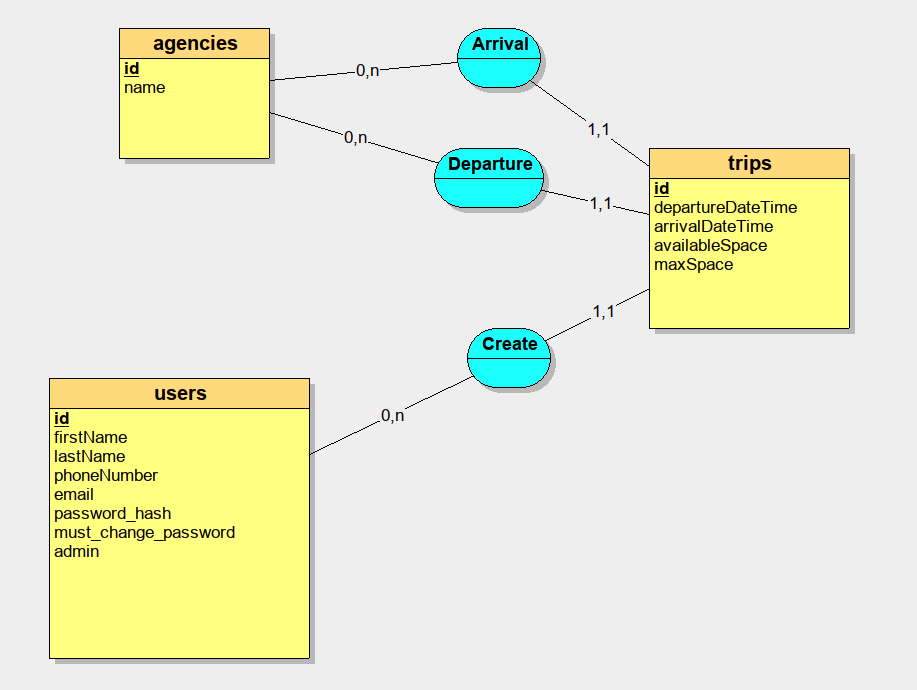
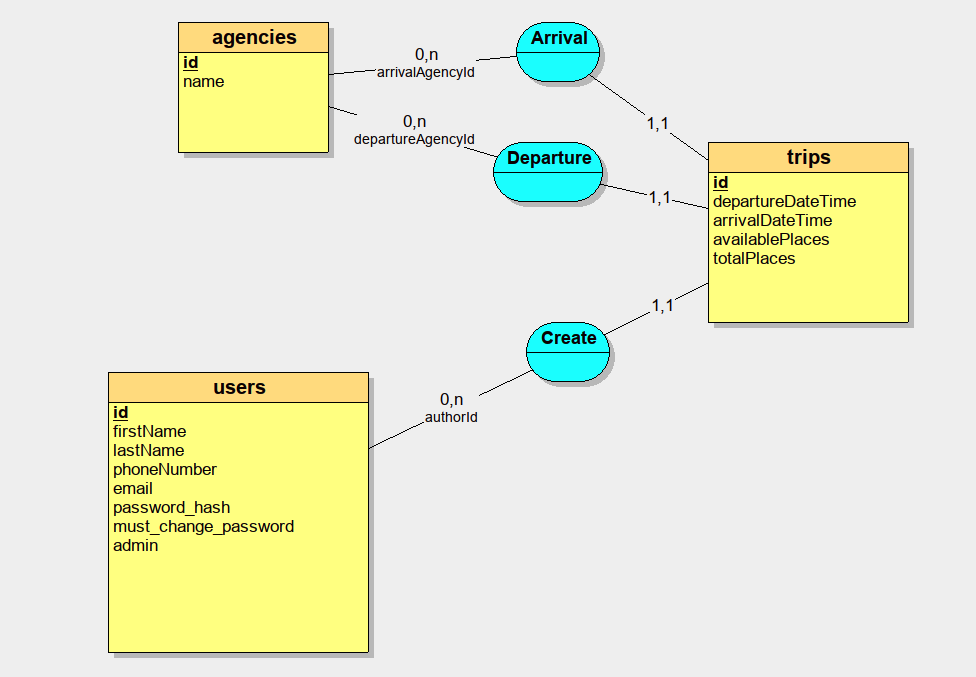
Added some throwale exception, code implemented in service.php, agencyService.php and userService.php. Added some test code in test.php and fixed some errors

Changed region(s): [[0.1221, 0.031, 0.9466, 0.4963], [0.0305, 0.5273, 0.4885, 0.9926], [0.4885, 0.4653, 0.6412, 0.5894]]

diff --git a/src/Services/Service.php b/src/Services/Service.php
@@ -1,0 +1,124 @@
+<?php
+
+namespace App\Services;
+
+use App\Repositories\Repository;
+use App\Repositories\UserRepository;
+use InvalidArgumentException;
+use RuntimeException;
+use App\Exceptions\ForbiddenException;
+use App\Exceptions\UnthorizedException;
+use App\Exceptions\RessourceNotFoundException;
+use App\Models\Agency;
+use App\Models\User;
+use App\Models\Trip;
+
+abstract class Service
+{
+
+    protected Repository $repository;
+    protected UserRepository $userRepository;
+
+    public function __construct()
+    {
+        $this->repository = $this->getRepository();
+        $this->userRepository = new UserRepository();
+    }
+
+    abstract protected function getRepository(): object;
+
+    public function createService(object $o, int $userId): bool
+    {
+
+        $user = $this->userRepository->findById($userId);
+
+        if ($user === null) {
+            throw new RessourceNotFoundException();
+        }
+
+        if ($o instanceof User || $o instanceof Agency) {
+            if ($user->getAdmin() === false) {
+                throw new ForbiddenException('Only an admin can create this type of entity');
+            }
+        }
+
+        if (!$o->assertData()) {
+            throw new InvalidArgumentException('Invalid arguments');
+        }
+
+        $newEntry = $this->repository->create($o);
+
+        return $newEntry ? $newEntry : throw new RuntimeException('Entry cannot been created');
+    }
+
+    public function findAllService(): array
+    {
+
+        $entities = $this->repository->findAll();
+
+        if ($entities === []) {
+            throw new RessourceNotFoundException();
+        }
+
+        return $entities;
+    }
+
+    public function findByIdService(int $id): ?object
+    {
+
+        $entity = $this->repository->findById($id);
+
+        return $entity !== null ? $entity : throw new RessourceNotFoundException();
+    }
+
+    public function updateService(object $o, int $userId): bool
+    {
+
+        $user = $this->userRepository->findById($userId);
+
+        if ($user === null) {
+            throw new RuntimeException('User not found');
+        }
+
+        if ($o instanceof User || $o instanceof Agency) {
+            if ($user->getAdmin() === false) {
+                throw new ForbiddenException('Only an admin can create this type of entity');
+            }
+        }
+
+        if ($o instanceof Trip) {
+            if ($user->getId() !== $o->getAuthorId() && $user->getAdmin() === false) {
+                throw new ForbiddenException('Only the creator of this trip or an admin can update it');
+            }
+        }
+
+        if (!$o->assertData()) {
+            throw new InvalidArgumentException('Invalid arguments');
+        }
+
+        $entity = $this->repository->update($o);
+
+        return $entity ? $entity : throw new RessourceNotFoundException();
+    }
+
+    public function deleteService(int $id, int $userId): bool
+    {
+
+        $user = $this->userRepository->findById($userId);
+        $entity = $this->repository->findById($id);
+
+        if ($user === null) {
+            throw new RuntimeException('User not found');
+        }
+
+        if ($entity instanceof User || $entity instanceof Agency) {
+            if ($user->getAdmin() === false) {
+                throw new ForbiddenException('Only an admin can create this type of entity');
+            }
+        }
+
+        $entity = $this->repository->delete($id);
+
+        return $entity ? $entity : throw new RessourceNotFoundException();
+    }
+}

diff --git a/src/Services/UserService.php b/src/Services/UserService.php
@@ -1,0 +1,37 @@
+<?php
+
+namespace App\Services;
+
+use App\Services\Service;
+use App\Repositories\UserRepository;
+use App\Exceptions\RessourceNotFoundException;
+use InvalidArgumentException;
+
+
+class UserService extends Service
+{
+    public function __construct()
+    {
+        parent::__construct();
+    }
+
+    protected function getRepository(): object
+    {
+        return new UserRepository;
+    }
+
+    public function login(string $email, string $plainPassword) {}
+
+    public function findByEmailService(string $email): ?object
+    {
+        $userRepository = new UserRepository();
+
+        if (!filter_var($email, FILTER_VALIDATE_EMAIL)) {
+            throw new InvalidArgumentException('Invalid email address');
+        }
+
+        $user = $userRepository->findByEmail($email);
+
+        return $user ? $user : throw new RessourceNotFoundException();
+    }
+}

diff --git a/src/Models/User.php b/src/Models/User.php
@@ -127,10 +127,10 @@ class User extends Model
             'firstName',
             'lastName',
             'email',
-            'passwordHash',
+            'password_hash',
             'phoneNumber',
             'admin',
-            'mustChangePassword'
+            'must_change_password'
         ];
     }
 
@@ -155,10 +155,10 @@ class User extends Model
             firstName: $data['firstName'],
             lastName: $data['lastName'],
             email: $data['email'],
-            passwordHash: $data['passwordHash'],
+            passwordHash: $data['password_hash'],
             phoneNumber: $data['phoneNumber'],
             admin: $data['admin'],
-            mustChangePassword: $data['mustChangePassword']
+            mustChangePassword: $data['must_change_password']
 
         );
     }

diff --git a/src/Repositories/Repository.php b/src/Repositories/Repository.php
@@ -62,18 +62,18 @@ abstract class Repository
         $data = $o->toArray();
         $sets = implode(', ', array_map(fn($c) => "$c = :$c", $o->getKeys()));
 
-        $id = $o->getId();
-        echo $id;
-
         $stmt = $this->pdo->prepare("UPDATE {$this->getTable()} SET $sets WHERE id = :id");
 
-        return $stmt->execute([...$data, 'id' => $o->getId()]);
+        $stmt->execute([...$data, 'id' => $o->getId()]);
+
+        return $stmt->rowCount() > 0;
     }
 
     public function delete(int $id): bool
     {
         $stmt = $this->pdo->prepare("DELETE FROM {$this->getTable()} WHERE id = :id");
 
-        return $stmt->execute(['id' => $id]);
+        $stmt->execute(['id' => $id]);
+        return $stmt->rowCount() > 0;
     }
 }

diff --git a/src/Exceptions/RessourceNotFoundException.php b/src/Exceptions/RessourceNotFoundException.php
@@ -1,0 +1,19 @@
+<?php
+
+namespace App\Exceptions;
+
+class RessourceNotFoundException extends \RuntimeException
+{
+    protected int $statusCode;
+
+    public function __construct(string $message = 'Requested ressource was not found')
+    {
+        parent::__construct($message);
+        $this->statusCode = 404;
+    }
+
+    public function getStatusCode(): int
+    {
+        return $this->statusCode;
+    }
+}

diff --git a/src/Exceptions/InvalidArgumentException.php b/src/Exceptions/InvalidArgumentException.php
@@ -1,0 +1,20 @@
+<?php
+
+namespace App\Exceptions;
+
+class InvalidArgumentException extends \RuntimeException
+{
+
+    protected int $statusCode;
+
+    public function __construct(string $message)
+    {
+        parent::__construct($message);
+        $this->statusCode = 400;
+    }
+
+    public function getStatusCode(): int
+    {
+        return $this->statusCode;
+    }
+}

diff --git a/src/Exceptions/UnthorizedException.php b/src/Exceptions/UnthorizedException.php
@@ -1,0 +1,19 @@
+<?php
+
+namespace App\Exceptions;
+
+class UnthorizedException extends \RuntimeException
+{
+    protected int $statusCode;
+
+    public function __construct(string $message)
+    {
+        parent::__construct($message);
+        $this->statusCode = 401;
+    }
+
+    public function getStatusCode(): int
+    {
+        return $this->statusCode;
+    }
+}

diff --git a/src/Exceptions/ForbiddenException.php b/src/Exceptions/ForbiddenException.php
@@ -1,0 +1,19 @@
+<?php
+
+namespace App\Exceptions;
+
+class ForbiddenException extends \RuntimeException
+{
+    protected int $statusCode;
+
+    public function __construct(string $message)
+    {
+        parent::__construct($message);
+        $this->statusCode = 403;
+    }
+
+    public function getStatusCode(): int
+    {
+        return $this->statusCode;
+    }
+}

diff --git a/src/Models/Agency.php b/src/Models/Agency.php
@@ -1,8 +1,11 @@
 <?php
 
+declare(strict_types=1);
+
 namespace App\Models;
 
 use App\Models\Model;
+use BcMath\Number;
 use JsonSerializable;
 
 class Agency extends Model
@@ -52,6 +55,7 @@ class Agency extends Model
 
     public function assertData(): bool
     {
+
         if (trim(self::getName()) === '') {
             return false;
         }

diff --git a/src/Services/AgencyService.php b/src/Services/AgencyService.php
@@ -1,0 +1,15 @@
+<?php
+
+namespace App\Services;
+
+use App\Services\Service;
+use App\Repositories\AgencyRepository;
+
+class AgencyService extends Service
+{
+
+    protected function getRepository(): object
+    {
+        return new AgencyRepository();
+    }
+}
